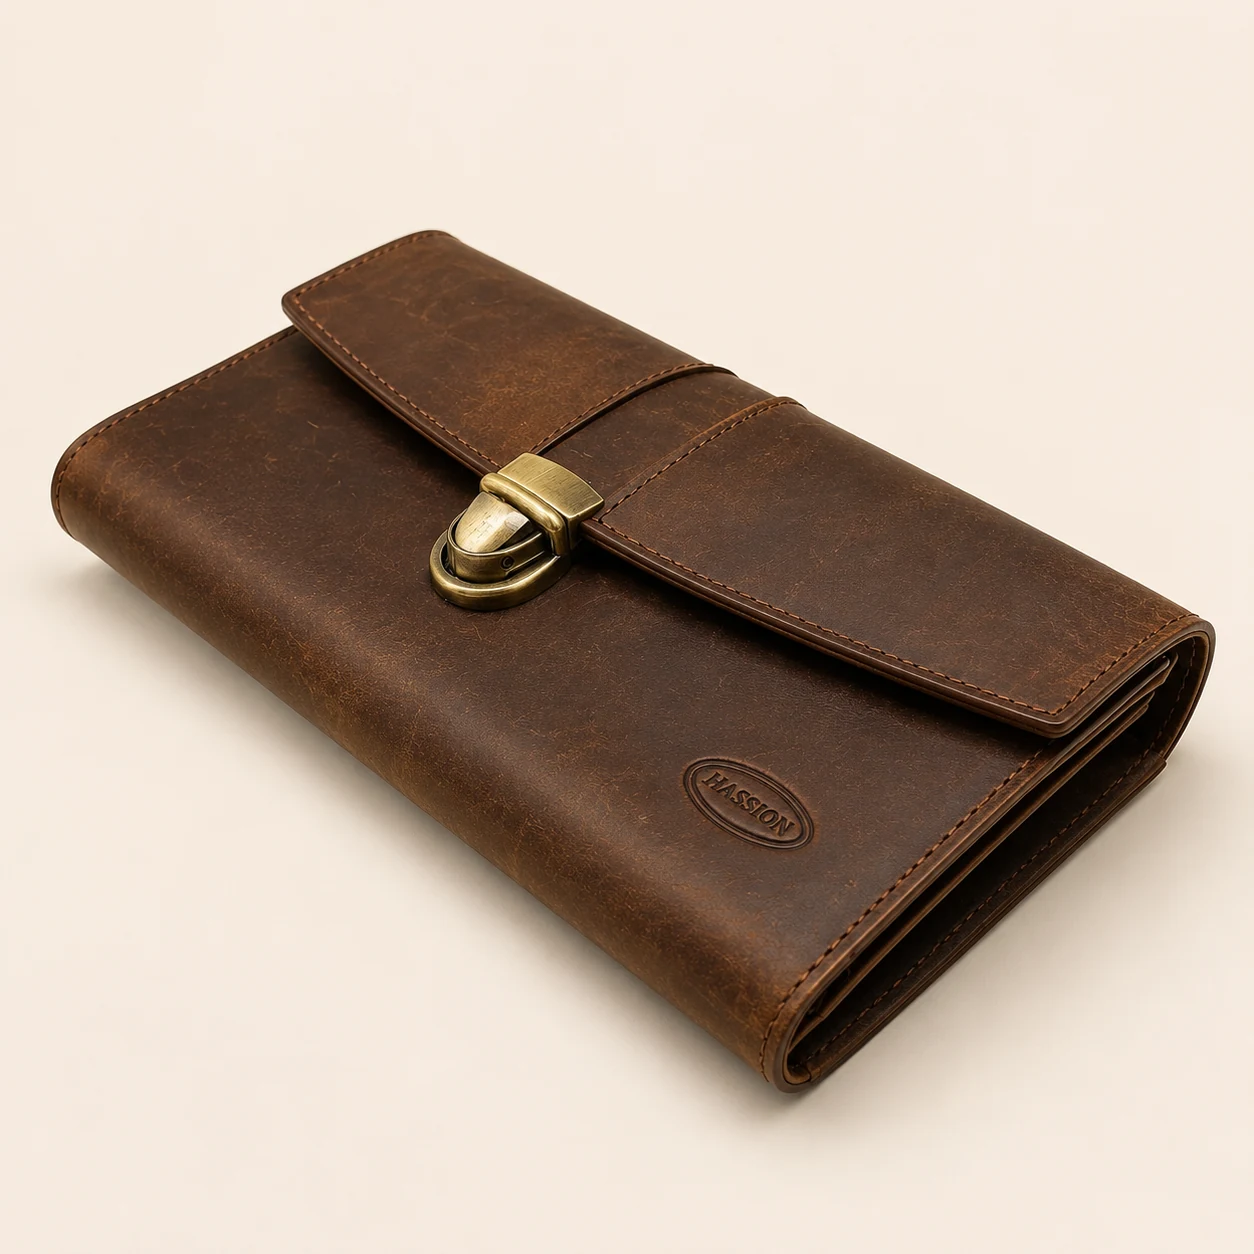
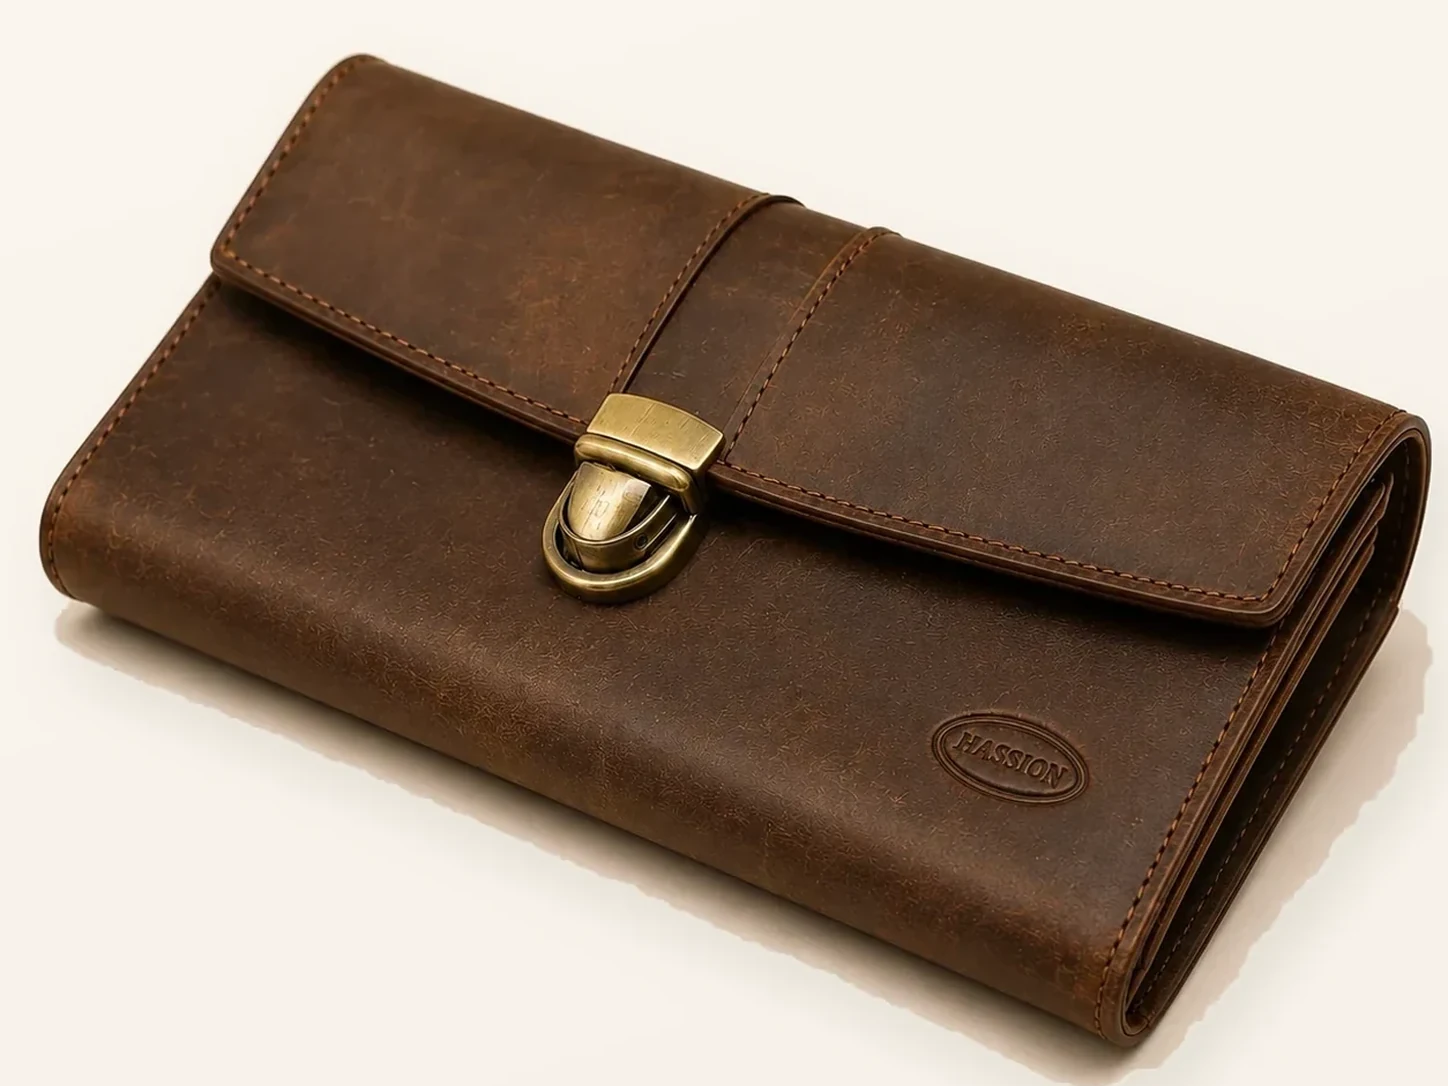
Align men's wallet product image ratio

diff --git a/index.html b/index.html
@@ -806,7 +806,7 @@
         <p class="section-subtitle">OEM Leather Goods for Brands, Wholesalers and Corporate Buyers</p>
         <div class="products-grid">
             <div class="product-card">
-                <img src="images/product_mens_wallet.webp" alt="Men's Leather Wallet" width="1254" height="1254" loading="lazy">
+                <img src="images/product_mens_wallet.webp" alt="Men's Leather Wallet" width="1448" height="1086" loading="lazy">
                 <div class="card-body">
                     <h3 class="card-name">Men's Wallet</h3>
                     <p class="card-desc">Bifold, trifold, slim and RFID wallet styles.</p>
